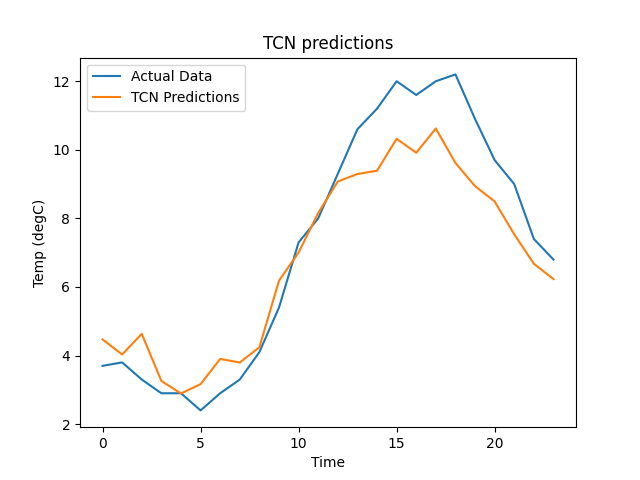
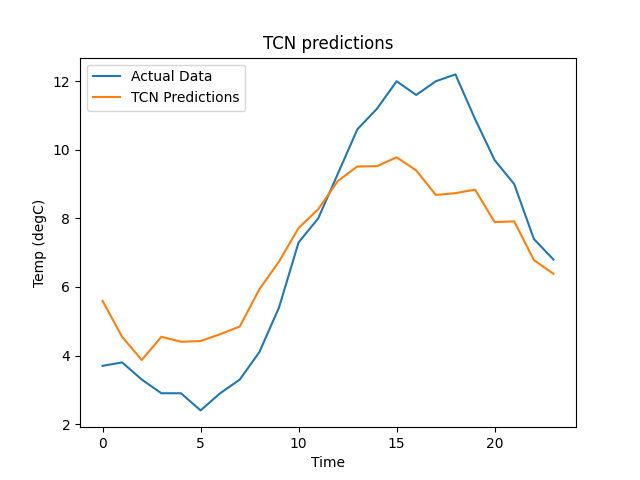
Release for submission

diff --git a/test_trained_model.py b/test_trained_model.py
@@ -12,12 +12,13 @@ from LSTM.lstm_model import LSTM
 from TCN.tcn_model import TCN
 from sklearn.metrics import mean_absolute_error, r2_score
 
+# Script allows to test and compare all trained models
 
 # Station and feature that we want to forecast
 stations = [30165,48374,49608]
 STATION_FORECASTED = 0
 feature_list = ['Temp (degC)','Rel Hum (%)','Precip. Amount (mm)','Stn Press (kPa)','Wind Spd (km/h)']
-FEATURE_FORECASTED = 4
+FEATURE_FORECASTED = 0
 selected_feature = len(feature_list)*STATION_FORECASTED+FEATURE_FORECASTED
 num_features = len(stations) * len(feature_list)
 

diff --git a/tcn_implementation.py b/tcn_implementation.py
@@ -26,7 +26,7 @@ TS_PAST     = 120   # Time steps to look into the past (context) [h]
 TS_FUTURE   = 24    # Time steps to look into the future (forecast) [h]
 
 # Global nn parameters
-epochs = 300                        # Training epochs
+epochs = 150                        # Training epochs
 input_size = TS_PAST                # Context
 output_size = TS_FUTURE             # Forecast
 channel_sizes = [num_features]*3    # Temporal causal layer channels [num of features]*amount of filters per layer

diff --git a/data/get_weather_data/download_weather_data.py b/data/get_weather_data/download_weather_data.py
@@ -1,4 +1,5 @@
 from weather_data_downloader import WeatherDataDownloader
+# Download historical weather data and store in pkl and csv files
 
 # Liste des stations étudiées [Montréal/PET,Montréal/St-Hubert,Montréal/Mirabel]
 stations = [30165,48374,49608]

diff --git a/licence.md b/licence.md
@@ -1,0 +1,21 @@
+MIT License
+
+Copyright (c) [2023] [Mathieu Mullins]
+
+Permission is hereby granted, free of charge, to any person obtaining a copy
+of this software and associated documentation files (the "Software"), to deal
+in the Software without restriction, including without limitation the rights
+to use, copy, modify, merge, publish, distribute, sublicense, and/or sell
+copies of the Software, and to permit persons to whom the Software is
+furnished to do so, subject to the following conditions:
+
+The above copyright notice and this permission notice shall be included in all
+copies or substantial portions of the Software.
+
+THE SOFTWARE IS PROVIDED "AS IS", WITHOUT WARRANTY OF ANY KIND, EXPRESS OR
+IMPLIED, INCLUDING BUT NOT LIMITED TO THE WARRANTIES OF MERCHANTABILITY,
+FITNESS FOR A PARTICULAR PURPOSE AND NONINFRINGEMENT. IN NO EVENT SHALL THE
+AUTHORS OR COPYRIGHT HOLDERS BE LIABLE FOR ANY CLAIM, DAMAGES OR OTHER
+LIABILITY, WHETHER IN AN ACTION OF CONTRACT, TORT OR OTHERWISE, ARISING FROM,
+OUT OF OR IN CONNECTION WITH THE SOFTWARE OR THE USE OR OTHER DEALINGS IN THE
+SOFTWARE.

diff --git a/README.md b/README.md
@@ -1,4 +1,5 @@
 # Time Series Forecasting with Deep Learning for Weather Forecasting
+by Mathieu Mullins
 
 ## Introduction
 This repository contains code for a time series forecasting model that compares deep learning models (LSTM, GRU, TCN) to predict weather conditions. The goal is to provide accurate forecasts based on historical weather data from the Government of Canada's historical weather data.
